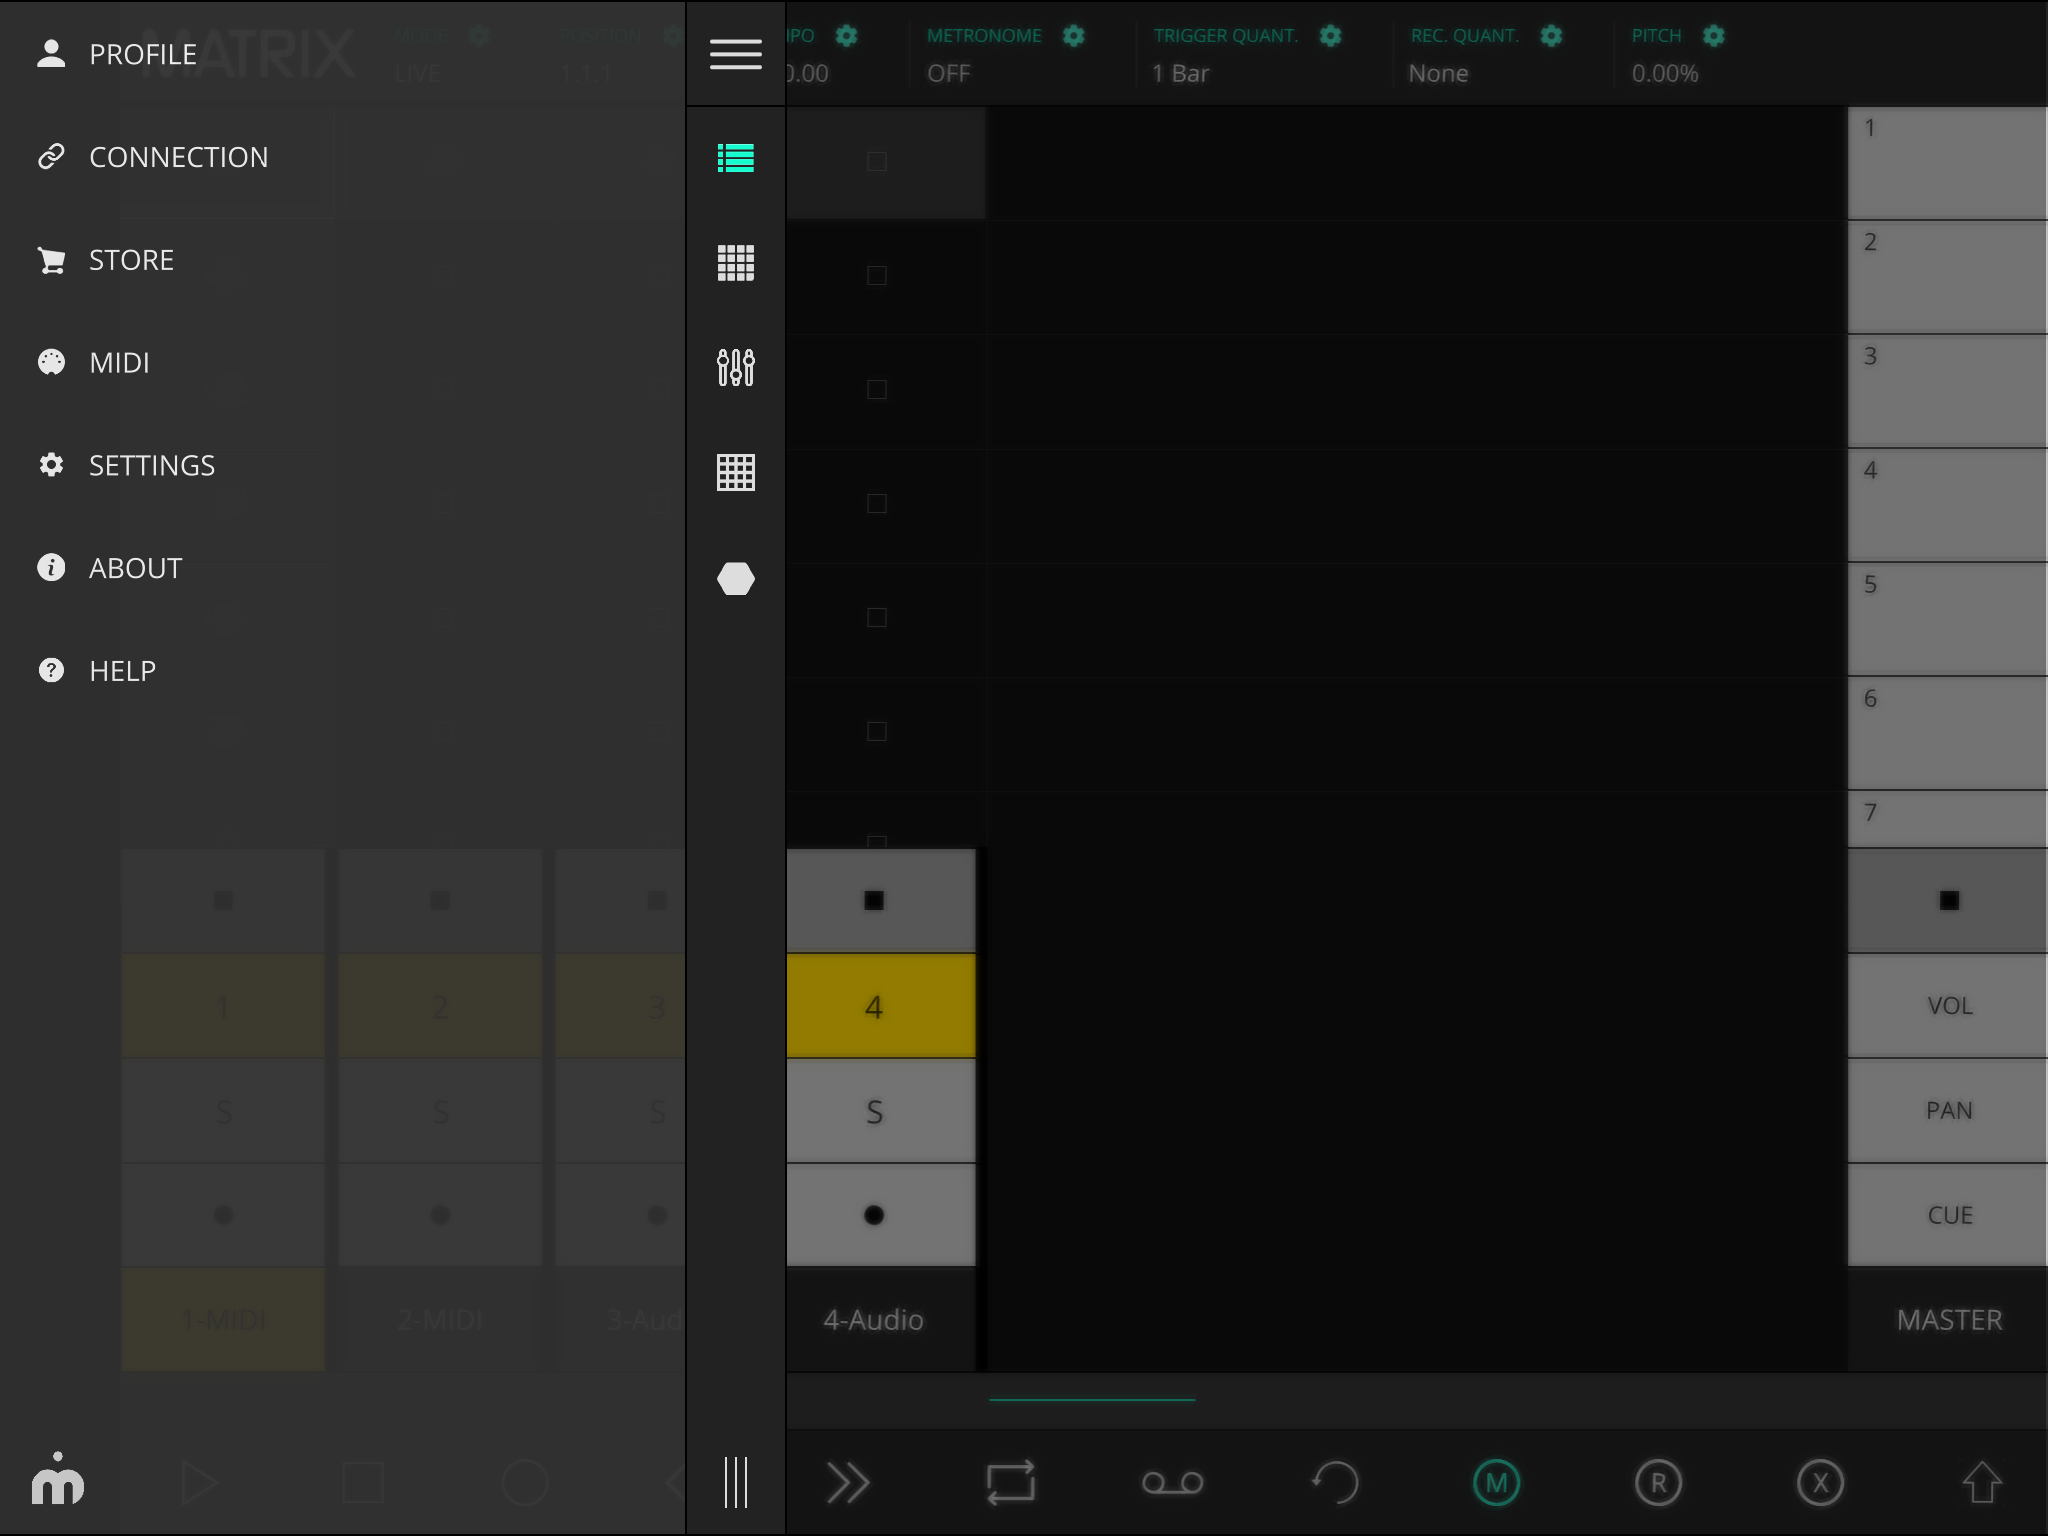
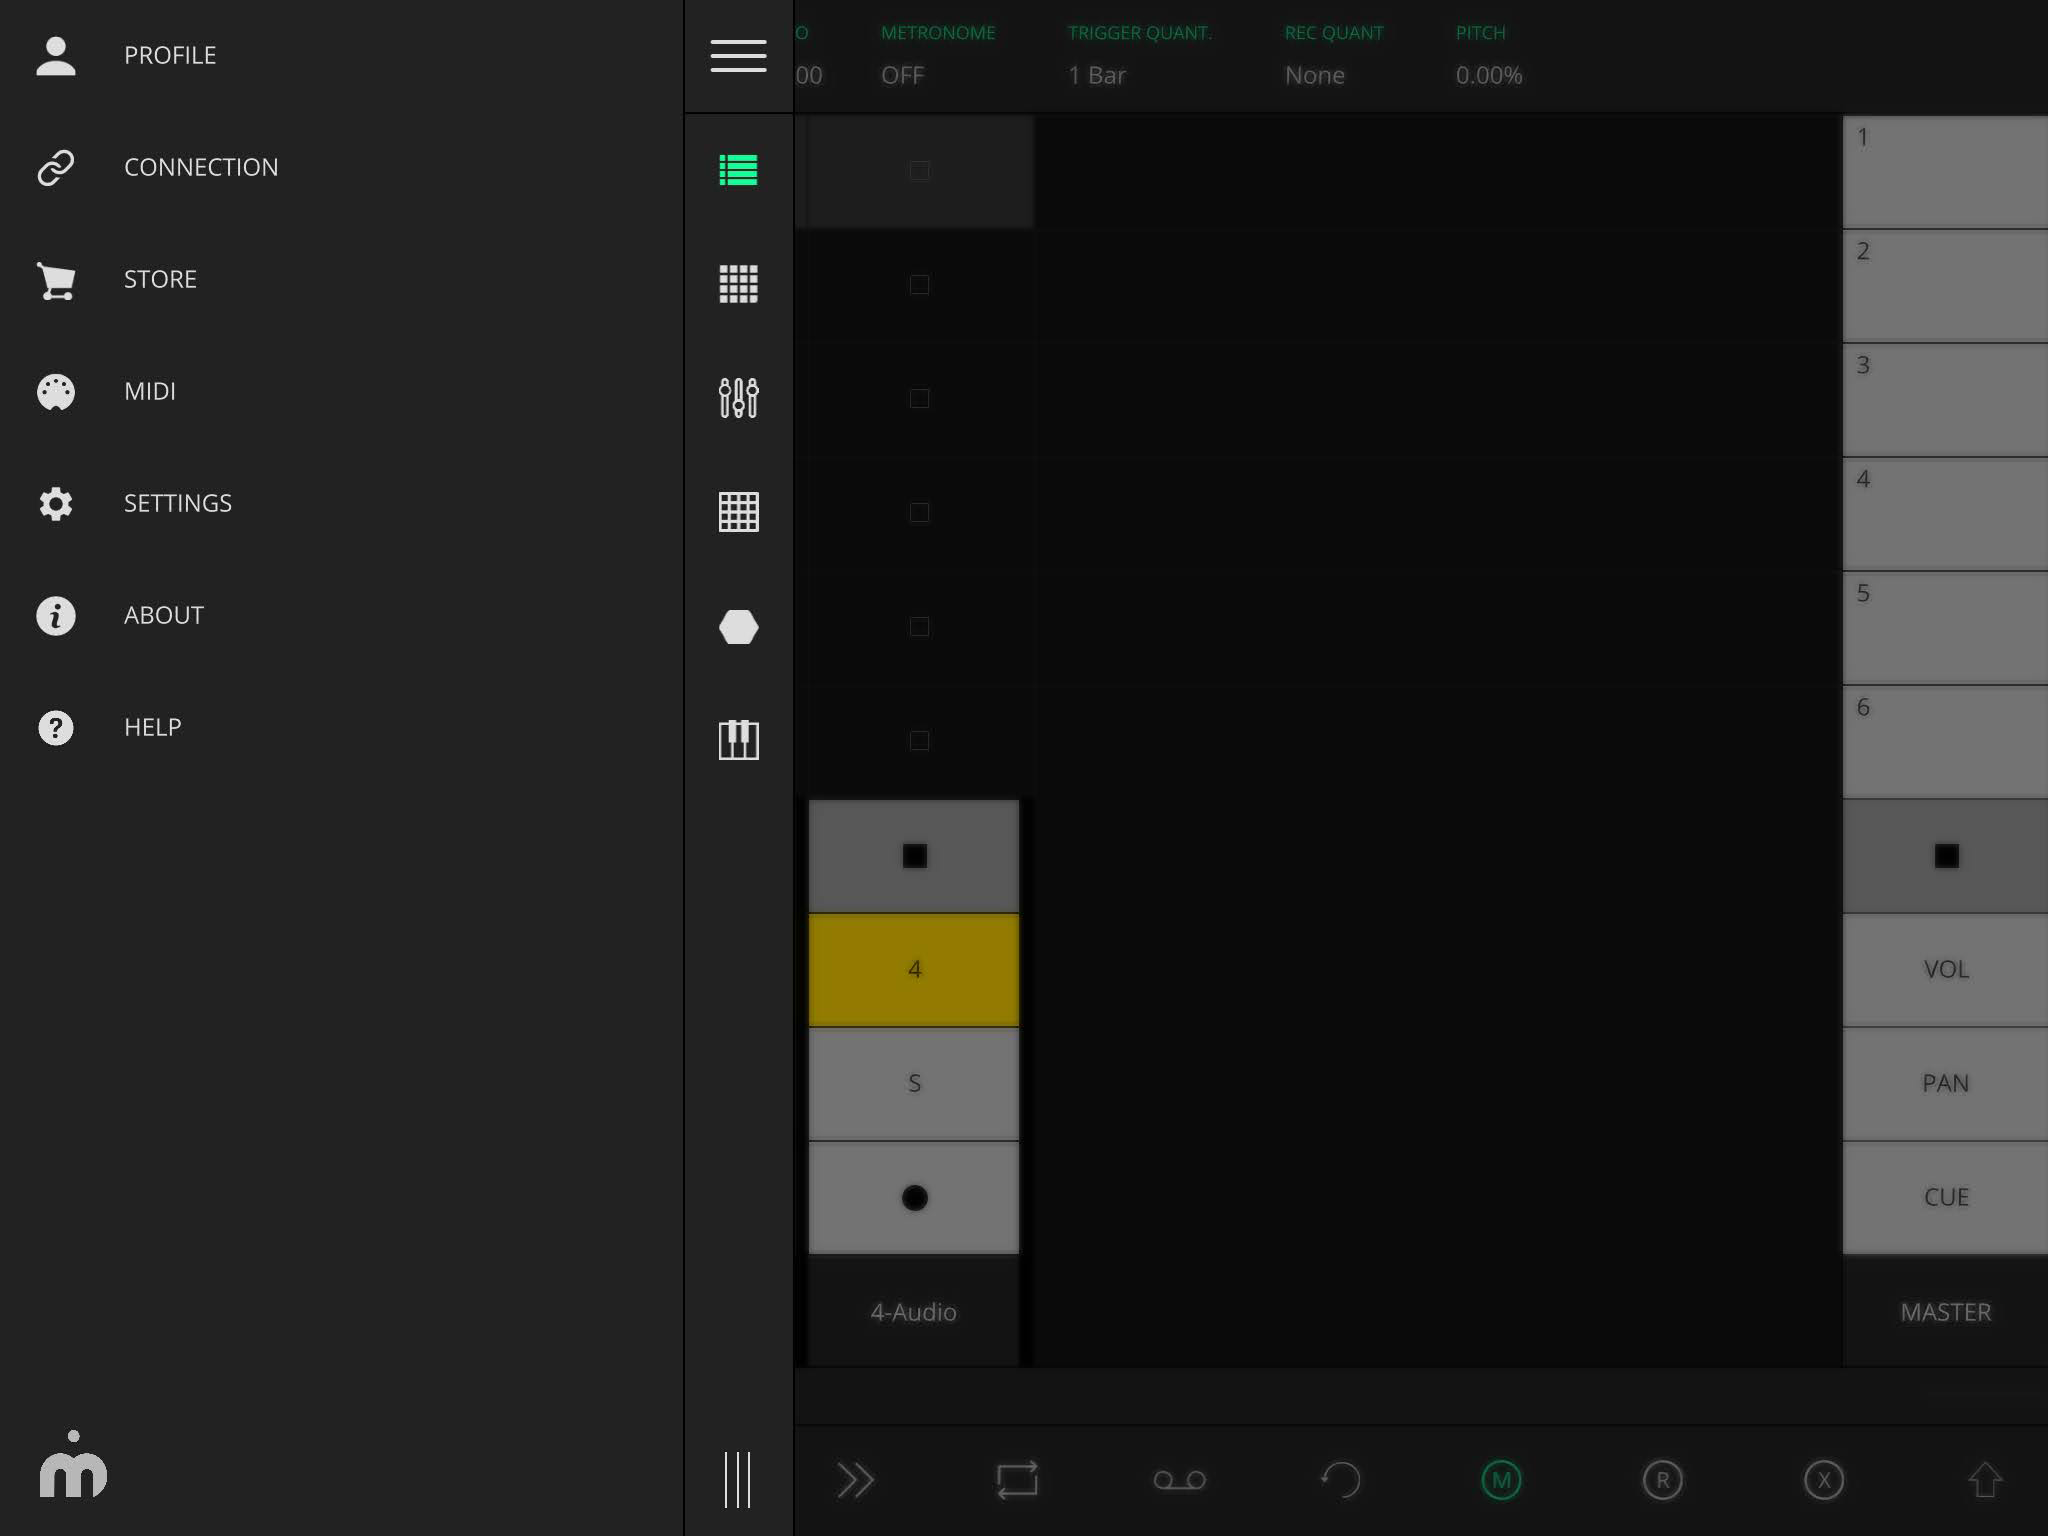
updated images

diff --git a/lk/overview.md b/lk/overview.md
@@ -10,9 +10,10 @@ Available modules:
 
 - **Matrix** - Ableton Session view controller and powerful MIDI clip launcher
 - **MIDI Pads** - MPC style pads with arpeggiator and chorder
-- **MIDI Controller** - generic MIDI controller module
+- **MIDI Controller** - faders, knobs and buttons
 - **XY/Pad** - KAOSS style X/Y MIDI controller
 - **Chorder** - One-touch chord generator
+- **Keyboard** - MIDI piano keyboard
 
 Above and below the module icons, are two buttons which both provide access to LK’s in-app menu, which contains the following sections:
 

diff --git a/lk/contents.md b/lk/contents.md
@@ -1,6 +1,6 @@
 # LK Help
 
-Thank you for your interest in **LK** - Ableton Live and Midi Controller.
+Thank you for your interest in **LK - Ableton Live and Midi Controller**.
 
 LK provides touchscreen interaction with any MIDI enabled software/hardware, offering a wide range of creative possibilities for both live performance and studio environments.
 
